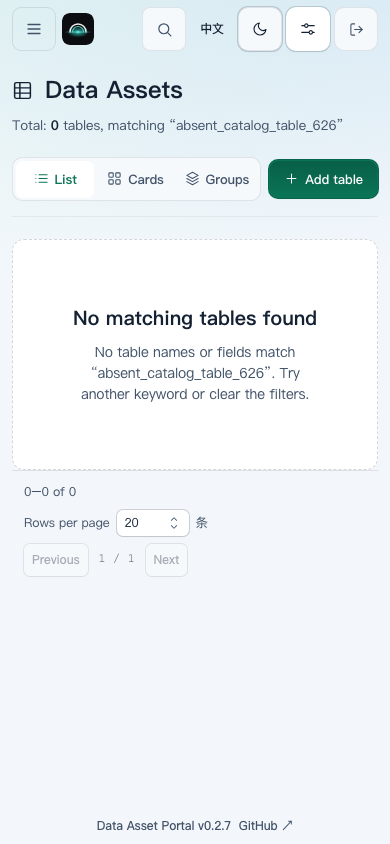
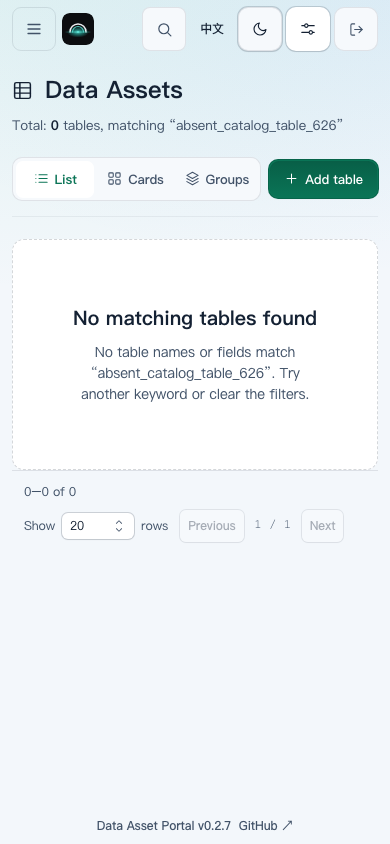
fix(ui): keep the English page-size unit from falling back to Chinese

Changed region(s): [[0.0615, 0.5853, 0.5846, 0.6777], [0.8, 0.6161, 0.8615, 0.6469]]

diff --git a/frontend/src/ui/TablePagination.tsx b/frontend/src/ui/TablePagination.tsx
@@ -39,8 +39,6 @@ export function TablePagination({
   const controlsDisabled = disabled;
   const rootClassName = ["dap-table-pagination", className].filter(Boolean).join(" ");
 
-  const unit = t("pagination.unit");
-
   return (
     <nav
       className={rootClassName}
@@ -69,7 +67,7 @@ export function TablePagination({
               onPageSizeChange(value);
             }}
           />
-          {unit && <span>{unit}</span>}
+          <span>{t("pagination.unit")}</span>
         </label>
         <div className="dap-table-pagination__page-controls" role="group" aria-label={t("pagination.pages")}>
           <Button

diff --git a/frontend/e2e/warehouse-visual.spec.ts b/frontend/e2e/warehouse-visual.spec.ts
@@ -151,6 +151,7 @@ test("data warehouse views, detail, DDL, risks, and editors stay consistent at t
   await expectNoPageOverflow(page);
   await capture(page, info, "warehouse-english-list-390x844");
   const pager = page.getByRole("navigation", { name: "Data warehouse asset table pagination" });
+  await expect(pager.locator(".dap-table-pagination__size-group")).toHaveText(/Show\s*20\s*rows/);
   await pager.getByRole("button", { name: "Next" }).click();
   await expect(pager).toContainText("21–40 of 224");
   await page.goto(`${ASSET_PATH}/${ASSET_NAME}`);
